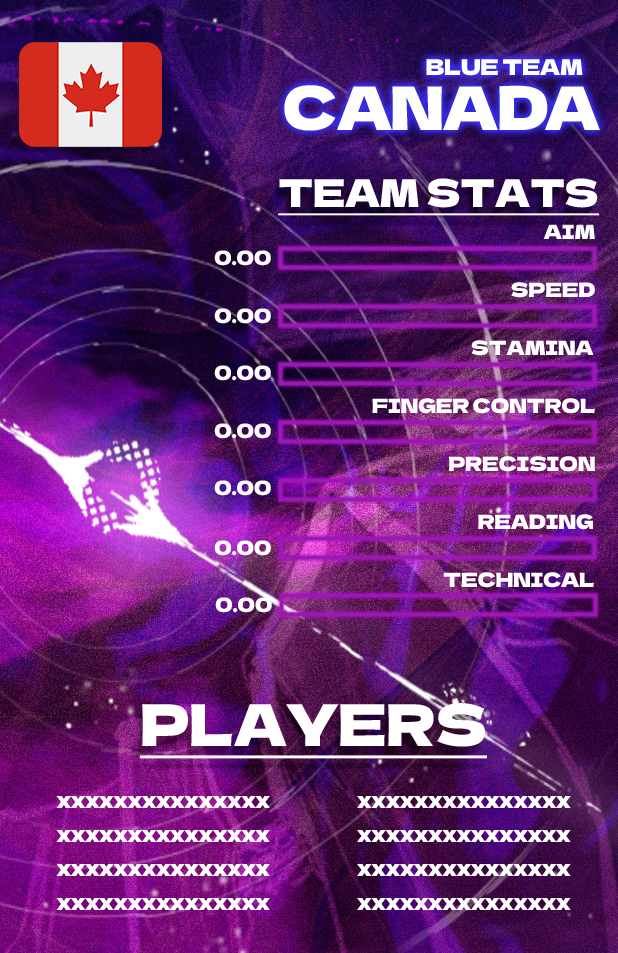
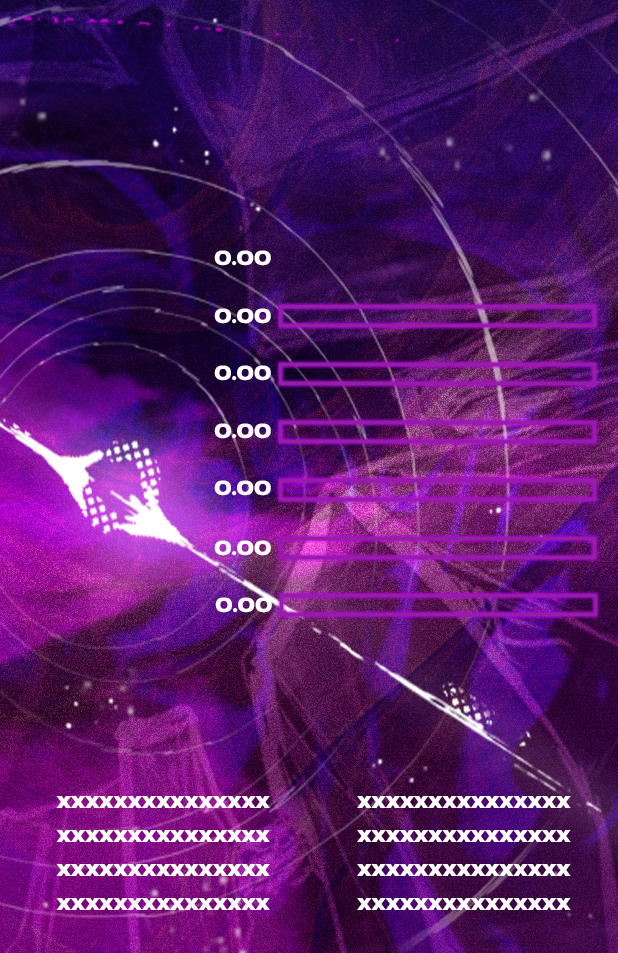
feat: complete styling all team stats section stuff

diff --git a/team-intro/index.html b/team-intro/index.html
@@ -37,6 +37,82 @@
         <div class="players-text blue-players-text">PLAYERS</div>
         <div class="players-text-underline red-players-text-underline"></div>
         <div class="players-text-underline blue-players-text-underline"></div>
+
+        <!-- Team Stats Section Text -->
+        <div class="team-stats-section-text team-stats-section-text-aim team-stats-section-text-left">AIM</div>
+        <div class="team-stats-section-text team-stats-section-text-aim team-stats-section-text-right">AIM</div>
+        <div class="team-stats-section-text team-stats-section-text-speed team-stats-section-text-left">SPEED</div>
+        <div class="team-stats-section-text team-stats-section-text-speed team-stats-section-text-right">SPEED</div>
+        <div class="team-stats-section-text team-stats-section-text-stamina team-stats-section-text-left">STAMINA</div>
+        <div class="team-stats-section-text team-stats-section-text-stamina team-stats-section-text-right">STAMINA</div>
+        <div class="team-stats-section-text team-stats-section-text-fc team-stats-section-text-left">FINGER CONTROL</div>
+        <div class="team-stats-section-text team-stats-section-text-fc team-stats-section-text-right">FINGER CONTROL</div>
+        <div class="team-stats-section-text team-stats-section-text-precision team-stats-section-text-left">PRECISION</div>
+        <div class="team-stats-section-text team-stats-section-text-precision team-stats-section-text-right">PRECISION</div>
+        <div class="team-stats-section-text team-stats-section-text-reading team-stats-section-text-left">READING</div>
+        <div class="team-stats-section-text team-stats-section-text-reading team-stats-section-text-right">READING</div>
+        <div class="team-stats-section-text team-stats-section-text-technical team-stats-section-text-left">TECHNICAL</div>
+        <div class="team-stats-section-text team-stats-section-text-technical team-stats-section-text-right">TECHNICAL</div>
+        
+        <!-- Team Stats Section Bar -->
+        <div class="team-stats-section-bar team-stats-section-bar-aim team-stats-section-bar-left">
+            <div class="team-stats-section-bar-inner"></div>
+        </div>
+        <div class="team-stats-section-bar team-stats-section-bar-aim team-stats-section-bar-right">
+            <div class="team-stats-section-bar-inner"></div>
+        </div>
+        <div class="team-stats-section-bar team-stats-section-bar-speed team-stats-section-bar-left">
+            <div class="team-stats-section-bar-inner"></div>
+        </div>
+        <div class="team-stats-section-bar team-stats-section-bar-speed team-stats-section-bar-right">
+            <div class="team-stats-section-bar-inner"></div>
+        </div>
+        <div class="team-stats-section-bar team-stats-section-bar-stamina team-stats-section-bar-left">
+            <div class="team-stats-section-bar-inner"></div>
+        </div>
+        <div class="team-stats-section-bar team-stats-section-bar-stamina team-stats-section-bar-right">
+            <div class="team-stats-section-bar-inner"></div>
+        </div>
+        <div class="team-stats-section-bar team-stats-section-bar-fc team-stats-section-bar-left">
+            <div class="team-stats-section-bar-inner"></div>
+        </div>
+        <div class="team-stats-section-bar team-stats-section-bar-fc team-stats-section-bar-right">
+            <div class="team-stats-section-bar-inner"></div>
+        </div>
+        <div class="team-stats-section-bar team-stats-section-bar-precision team-stats-section-bar-left">
+            <div class="team-stats-section-bar-inner"></div>
+        </div>
+        <div class="team-stats-section-bar team-stats-section-bar-precision team-stats-section-bar-right">
+            <div class="team-stats-section-bar-inner"></div>
+        </div>
+        <div class="team-stats-section-bar team-stats-section-bar-reading team-stats-section-bar-left">
+            <div class="team-stats-section-bar-inner"></div>
+        </div>
+        <div class="team-stats-section-bar team-stats-section-bar-reading team-stats-section-bar-right">
+            <div class="team-stats-section-bar-inner"></div>
+        </div>
+        <div class="team-stats-section-bar team-stats-section-bar-technical team-stats-section-bar-left">
+            <div class="team-stats-section-bar-inner"></div>
+        </div>
+        <div class="team-stats-section-bar team-stats-section-bar-technical team-stats-section-bar-right">
+            <div class="team-stats-section-bar-inner"></div>
+        </div>
+
+        <!-- Team Stats Section Text -->
+        <div class="team-stats-section-number team-stats-section-number-aim team-stats-section-number-left">0.00</div>
+        <div class="team-stats-section-number team-stats-section-number-aim team-stats-section-number-right">0.00</div>
+        <div class="team-stats-section-number team-stats-section-number-speed team-stats-section-number-left">0.00</div>
+        <div class="team-stats-section-number team-stats-section-number-speed team-stats-section-number-right">0.00</div>
+        <div class="team-stats-section-number team-stats-section-number-stamina team-stats-section-number-left">0.00</div>
+        <div class="team-stats-section-number team-stats-section-number-stamina team-stats-section-number-right">0.00</div>
+        <div class="team-stats-section-number team-stats-section-number-fc team-stats-section-number-left">0.00</div>
+        <div class="team-stats-section-number team-stats-section-number-fc team-stats-section-number-right">0.00</div>
+        <div class="team-stats-section-number team-stats-section-number-precision team-stats-section-number-left">0.00</div>
+        <div class="team-stats-section-number team-stats-section-number-precision team-stats-section-number-right">0.00</div>
+        <div class="team-stats-section-number team-stats-section-number-reading team-stats-section-number-left">0.00</div>
+        <div class="team-stats-section-number team-stats-section-number-reading team-stats-section-number-right">0.00</div>
+        <div class="team-stats-section-number team-stats-section-number-technical team-stats-section-number-left">0.00</div>
+        <div class="team-stats-section-number team-stats-section-number-technical team-stats-section-number-right">0.00</div>>
     </div>
 </body>
 </html>

diff --git a/team-intro/style.css b/team-intro/style.css
@@ -120,3 +120,74 @@
 }
 .red-players-text-underline { left: var(--players-text-underline-x); }
 .blue-players-text-underline { right: var(--players-text-underline-x); }
+
+/* Team Stats Text */
+.team-stats-section-text {
+    font-size: 22px;
+    font-family: "Dela Gothic One";
+    color: white;
+    text-align: right;
+    position: absolute;
+}
+.team-stats-section-text-aim { top: 245px; }
+.team-stats-section-text-speed { top: 311px; }
+.team-stats-section-text-stamina { top: 377px; }
+.team-stats-section-text-fc { top: 443px; }
+.team-stats-section-text-precision { top: 509px; }
+.team-stats-section-text-reading { top: 575px; }
+.team-stats-section-text-technical { top: 641px; }
+.team-stats-section-text-left { right: 1245px; }
+.team-stats-section-text-right { left: 1245px; }
+
+/* Team Stats Section Bar */
+.team-stats-section-bar {
+    position: absolute;
+    border-width: 3px;
+    border-color: rgba(163, 4, 230, 0.85);
+    border-style: solid;
+    position: absolute;
+    right: 1244px;
+    width: 353px;
+    height: 20px;
+    box-shadow:
+        0 0 4px 2px rgba(163, 4, 230, 0.85), 
+        inset 0 0 4px 2px rgba(163, 4, 230, 0.85);
+}
+.team-stats-section-bar-left { right: 1244px; }
+.team-stats-section-bar-right { left: 1244px; }
+.team-stats-section-bar-aim { top: 279px; }
+.team-stats-section-bar-speed { top: 345px; }
+.team-stats-section-bar-stamina { top: 411px; }
+.team-stats-section-bar-fc { top: 477px; }
+.team-stats-section-bar-precision { top: 543px; }
+.team-stats-section-bar-reading { top: 609px; }
+.team-stats-section-bar-technical { top: 675px; }
+/* Team Stats Bar Inner */
+.team-stats-section-bar-inner {
+    position: absolute;
+    top: 4px;
+    right: 4px;
+    width: 100px;
+    height: 12px;
+    background-color: rgba(163, 4, 230, 0.85);
+}
+.team-stats-section-bar-left .team-stats-section-bar-inner { right: 4px; }
+.team-stats-section-bar-right .team-stats-section-bar-inner { left: 4px; }
+
+/* Team Stats Section Number */
+.team-stats-section-number {
+    font-size: 22px;
+    font-family: "Dela Gothic One";
+    color: white;
+    position: absolute;
+    top: 274px;
+}
+.team-stats-section-number-left { right: 1612px; }
+.team-stats-section-number-right { left: 1612px; }
+.team-stats-section-number-aim { top: 274px; }
+.team-stats-section-number-speed { top: 340px; }
+.team-stats-section-number-stamina { top: 406px; }
+.team-stats-section-number-fc { top: 472px; }
+.team-stats-section-number-precision { top: 538px; }
+.team-stats-section-number-reading { top: 604px; }
+.team-stats-section-number-technical { top: 670px; }
